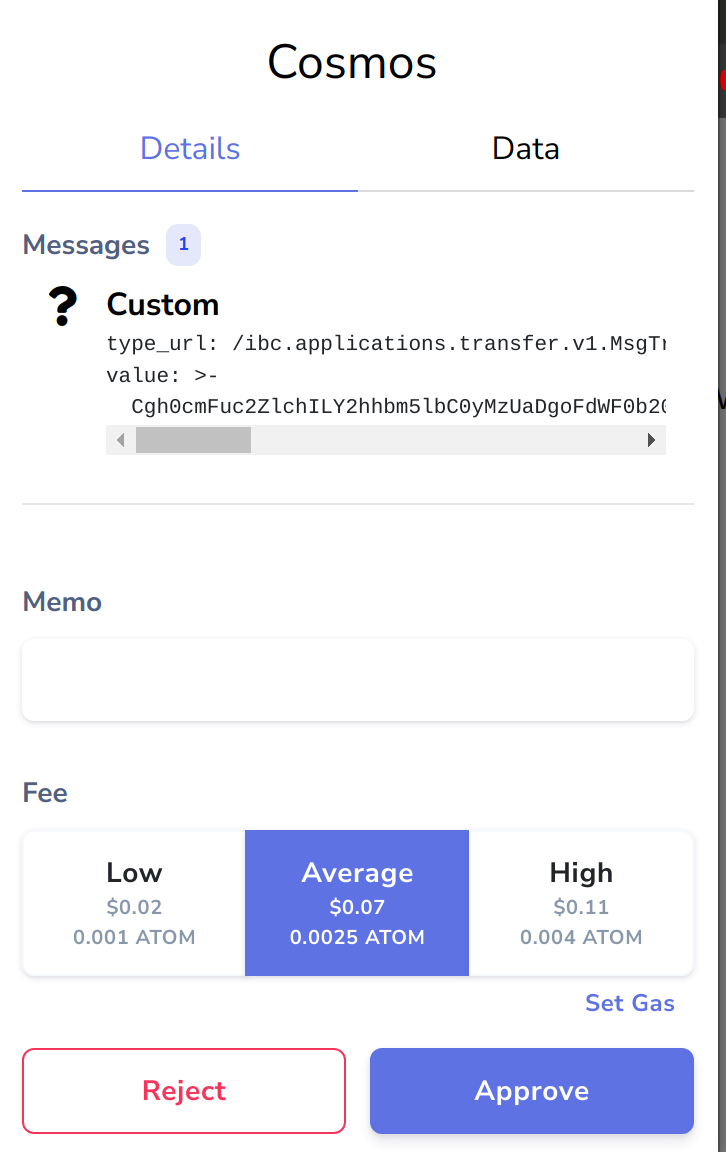
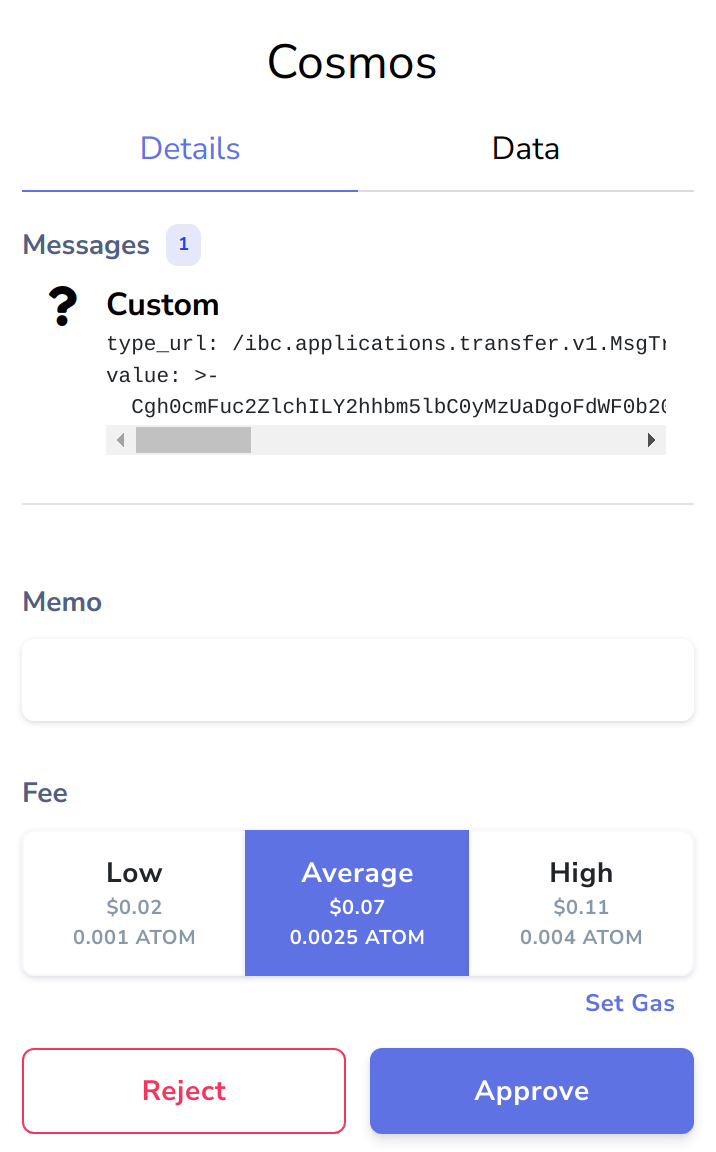
docs

diff --git a/README.md b/README.md
@@ -347,7 +347,7 @@ Although this is the legacy way of signing transactions on cosmos-sdk, it's stil
 
 Note that [ibc_transfer/MsgTransfer](https://secretjs.scrt.network/classes/MsgTransfer) for sending funds across IBC **is** supported.
 
-<img src="./media/keplr-amino.png" width="60%" />
+<img src="./media/keplr-amino.png" width="65%" style="border-style: solid;border-color: #5e72e4;border-radius: 10px;" />
 
 ### `getOfflineSigner()`
 
@@ -357,7 +357,7 @@ The new way of signing transactions on cosmos-sdk, it's more efficient but still
 - 🟥 Doesn't support users signing with Ledger
 - 🟩 Supports signing transactions with all types of Msgs
 
-<img src="./media/keplr-proto.png" width="60%" />
+<img src="./media/keplr-proto.png" width="65%" style="border-style: solid;border-color: #5e72e4;border-radius: 10px;" />
 
 ### `getOfflineSignerAuto()`
 
